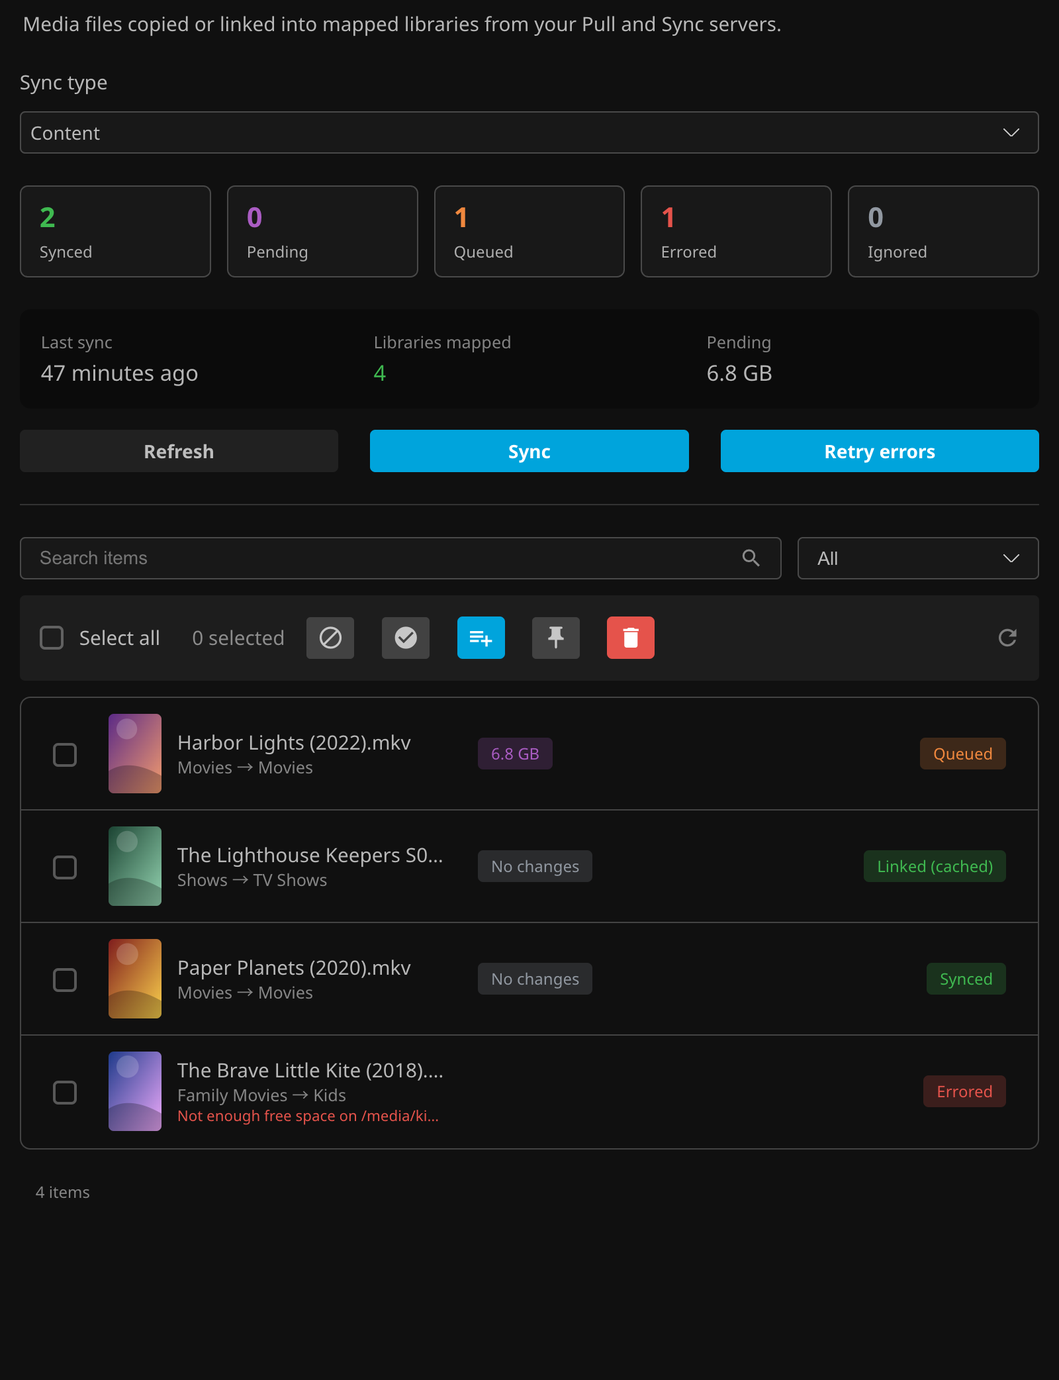
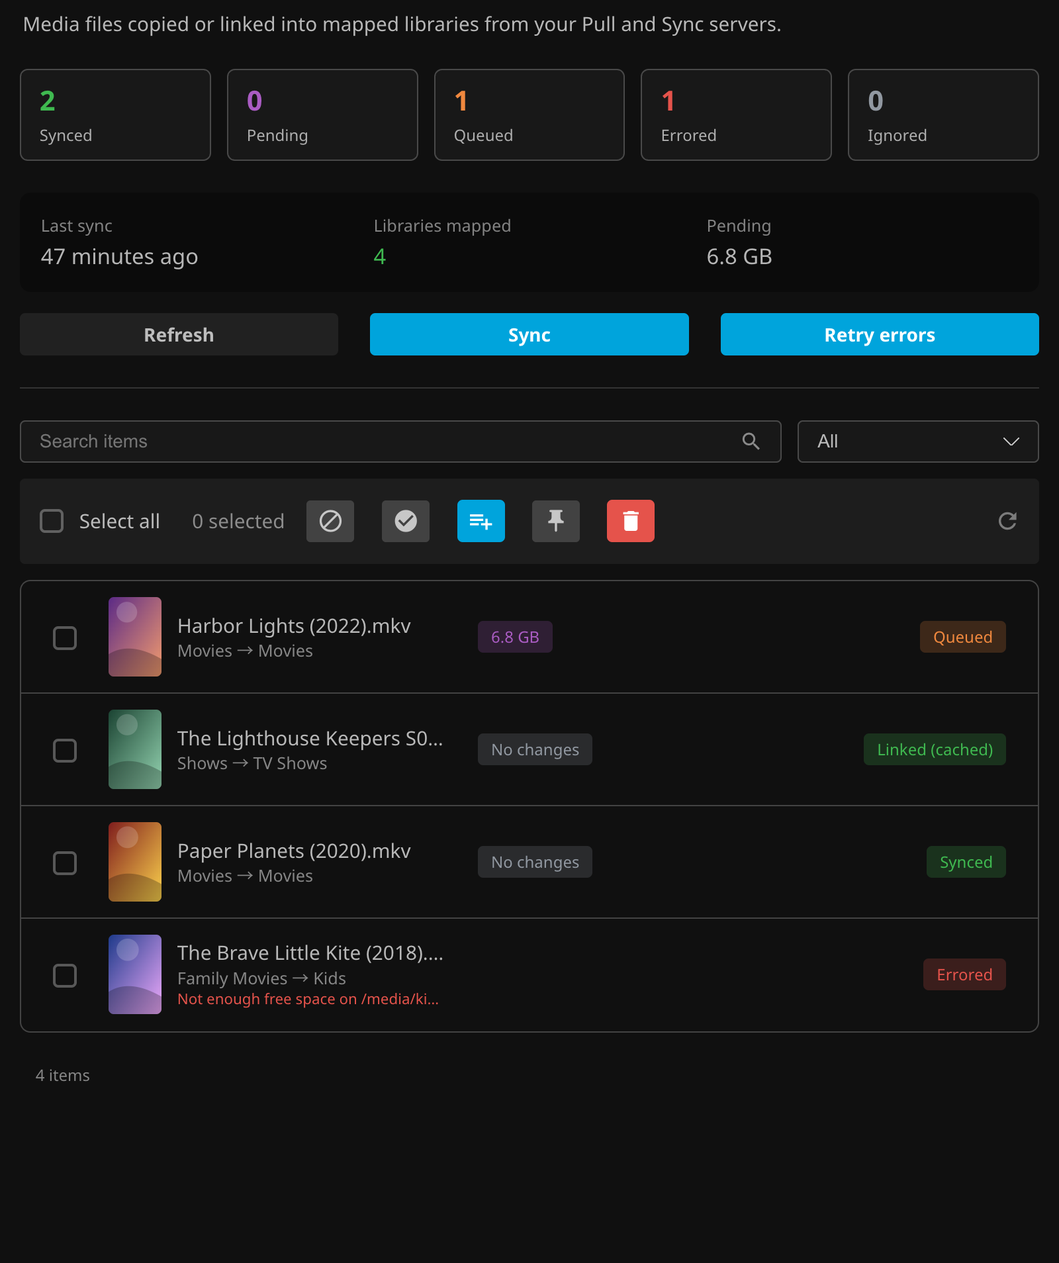
docs and shots for the per type sync tools

diff --git a/docs/Content.md b/docs/Content.md
@@ -15,7 +15,7 @@ Under **Settings > Synchronization > Content**:
 * **Removed files** decides what happens to a local file once its item is gone from the source. **Keep** leaves it. **Delete** deletes it on the next **Sync Content** run that does a full scan (**Full scan every (hours)** under Processing, 24 by default), but still asks first whenever the plugin cannot be sure the file should go. **Delete after approval** holds every deletion as Pending deletion until you approve it. **Ignore** keeps the files and, once everything in a movie or show folder is gone from the source, writes an empty `.ignore` file in that folder so Jellyfin hides it on its next scan. A season is never hidden on its own, so a show that still has episodes on the source stays as it is. A folder that already has a `.ignore` is left alone. A hidden title shows again when it comes back on the source, or when Removed files is set to anything else. Switching away from Delete cancels deletions that were still waiting. A link is not a local file and does not follow this setting. It is always removed once no server offers its file. See [Links](Links.md#when-the-file-is-gone).
 * **Enable recycling bin** moves deleted or replaced files to a recycling bin instead of removing them for good. **Recycling bin path** is its folder.
 * **Keep for (days)** sets how many days files stay in the recycling bin before permanent removal. Only files and trickplay folders the plugin put there expire. They carry the time they were recycled in their name, and anything else in the folder is left alone. A file from deep inside a library gets a shortened name, ending in its own file name and that time, so the move never fails on the filesystem's name length limit.
-* **Remove empty folders** deletes the folders a removal leaves holding nothing but files Zooid wrote. A folder that still holds anything else, such as artwork Jellyfin saved, stays. A title deleted by hand from the **Synchronization** tool also takes its artwork and `.nfo` files, as Jellyfin's own delete does.
+* **Remove empty folders** deletes the folders a removal leaves holding nothing but files Zooid wrote. A folder that still holds anything else, such as artwork Jellyfin saved, stays. A title deleted by hand from the **Content** tool also takes its artwork and `.nfo` files, as Jellyfin's own delete does.
 * **Downloads at once** limits how many files download at once.
 * **Temporary folder** is where files download before they move into place. Blank uses a `zooid` folder in Jellyfin's cache folder.
 * **Minimum free space (GB)** blocks downloads when free space falls below this many gigabytes. Downloads running at the same time hold space for each other, so several large files cannot together fill a disk that each would fit on alone. A file that only fits once another download finishes waits for it.
@@ -75,10 +75,10 @@ A server also keeps a record of the files that left its library, for 30 days. A 
 Zooid is meant to be set up and left alone. What fails is tried again without anyone asking, and only what cannot fix itself is brought to an administrator.
 
 * **Every failed item is retried on the next run**, for every sync type, once the tries set by **Failed item retries** are used up. A full disk, a source that was down, or a network that dropped clears on its own.
-* **An item that has failed on every run for a day is raised once** on Jellyfin's **Activity** page, as "Items failed for a day", with how many items of each kind are failing. It goes on being retried. Filter the **Synchronization** tool's table by **Errored** to see each one.
+* **An item that has failed on every run for a day is raised once** on Jellyfin's **Activity** page, as "Items failed for a day", with how many items of each kind are failing. It goes on being retried. Filter the **Content** tool's table by **Errored** to see each one.
 * **A link that is missing or out of date is written again** at the start of every **Sync Content** run. A link holds nothing, so it is never repaired, only replaced.
 * **A file that was already here is this server's own.** A file on this server before it was matched to another server's is tracked, and stays when that server removes its file, whatever **Removed files** is set to. Only files this server downloaded follow **Removed files**.
-* **When both servers already hold a title as different files, the direction decides.** A **Pull** server is a source to mirror. Its file replaces this server's by **Changed files**, and is from then on a downloaded file like any other. A **Sync** server is an equal. Each keeps its own file, the row is settled and says the two differ, and only what each lacks is filled in. Queue the row in the **Synchronization** tool to take the other server's file by hand. A [Link library](Links.md#versions) keeps this server's own file the same way, whatever the direction.
+* **When both servers already hold a title as different files, the direction decides.** A **Pull** server is a source to mirror. Its file replaces this server's by **Changed files**, and is from then on a downloaded file like any other. A **Sync** server is an equal. Each keeps its own file, the row is settled and says the two differ, and only what each lacks is filled in. Queue the row in the **Content** tool to take the other server's file by hand. A [Link library](Links.md#versions) keeps this server's own file the same way, whatever the direction.
 * **A copy is kept above all else.** A download interrupted while replacing a file puts the old file, its subtitles, artwork, and `.nfo` back on the next run. A download that does not match the size the source reported never replaces a file that is already here.
 * **A server that does not answer holds only its own files.** Removed files are still cleaned up for the servers that answered. The same goes for a server whose library filter names a collection it no longer has.
 * **A full disk does not stop removals.** Files waiting to be removed are removed before the run gives up for lack of space.

diff --git a/docs/Links.md b/docs/Links.md
@@ -202,7 +202,7 @@ A link can keep a full local copy of its file in the link cache. The `.strm` nev
 
 * It plays from the linking server, under the linking server's own rules. The source is not asked, its limits do not apply, and the link plays while the source is down.
 * Playback is not reported to the source, since it sends nothing. History sync carries played state there.
-* The **Synchronization** tool shows the row as **Linked (cached)**.
+* The **Content** tool shows the row as **Linked (cached)**.
 
 The cache is one folder with one size limit, whichever servers its links stream from. It is off until it is given a size.
 
@@ -245,7 +245,7 @@ The cache is kept across restarts. At startup, downloads cut short and cache fil
 
 ## The Link Check
 
-Every **Sync Content** run asks each connected server about the links that stream from it. A link whose file is gone from the source, or whose source no longer allows linking, shows in the **Synchronization** tool as an error starting with `Link check:` and the source's reason, before anyone presses play. The `.strm` is left in place, and the row is settled again on the first run where the source can stream the file. A source that cannot be reached flags nothing, since play falls back to another server and the next run checks again. A link whose file was removed for good is removed on the next full scan. See [When the File Is Gone](#when-the-file-is-gone).
+Every **Sync Content** run asks each connected server about the links that stream from it. A link whose file is gone from the source, or whose source no longer allows linking, shows in the **Content** tool as an error starting with `Link check:` and the source's reason, before anyone presses play. The `.strm` is left in place, and the row is settled again on the first run where the source can stream the file. A source that cannot be reached flags nothing, since play falls back to another server and the next run checks again. A link whose file was removed for good is removed on the next full scan. See [When the File Is Gone](#when-the-file-is-gone).
 
 The reasons a row can show are `the file is no longer on the source`, `the item is a link on the source, not a file`, `the source cannot read the file`, and `linking is not allowed for *server* here`.
 
@@ -271,7 +271,7 @@ These still follow **Removed files**, as a copy does:
 
 A link becomes a full copy in any of three ways:
 
-* **Keep a copy**, the pin on the **Synchronization** tool's toolbar for the selected rows, or **Download** in a link's details. These are queued at once, whatever **New files** is set to, since choosing them is the approval. When any of them is cached, a **Sync Content** run starts at once, or right after the one already running, to move it into place.
+* **Keep a copy**, the pin on the **Content** tool's toolbar for the selected rows, or **Download** in a link's details. These are queued at once, whatever **New files** is set to, since choosing them is the approval. When any of them is cached, a **Sync Content** run starts at once, or right after the one already running, to move it into place.
 * Picking it under **Always keep** on its mapping in the **Storage** page. The next refresh marks it under the **New files** approval, the same as below, and a new file under a pick is added as a copy. A pick removed before its copy is approved leaves it a link. A copy made for a pick goes back to being a link when the pick is removed. The next sync checks that the source still has the file and offers links, writes the link, and moves the copy into the link cache, or removes it when the cache is off or cannot hold it. A copy kept by hand stays until you select it under **Permanent copies** on the **Storage** page and choose **Turn back into links**.
 * Setting the mapping's **Storage** back to **Copy**. The next refresh marks its links under the **New files** approval. They are queued when new files download on their own, wait as Pending replacement when they need approval, and stay links when new files are switched off. Setting it back to Link before approving keeps them links. A link still waiting for its own first approval is left until that is settled.
 
@@ -325,7 +325,7 @@ When the source refuses, the player shows `This item streams from another server
 | this server could not tell who is playing | The request carried no signed in user |
 | press play again, so this server can ask the source | The client streamed without asking for playback first. See Limitations |
 
-A link row that errors in the **Synchronization** tool says why:
+A link row that errors in the **Content** tool says why:
 
 | Reason | Meaning |
 | :--- | :--- |

diff --git a/docs/Architecture.md b/docs/Architecture.md
@@ -73,7 +73,7 @@ Two visible tasks run every six hours. Each runs hidden tasks in order. Each ste
 | **Sync Content** (`SyncContentTask`) | `UpdateSyncTablesTask`, then `SyncMissingContentTask` when the refresh succeeded, then `SyncCollectionsTask` |
 | **Sync Information** (`SyncInformationTask`) | Metadata, People, Users, and History, each a refresh then an apply, then `SyncPlaylistsTask` |
 
-**Empty Recycling bin** and **Clean Temporary Directory** run daily. `POST /Sync/Tasks/{taskKey}/Run` starts a single refresh or apply step from the **Synchronization** page.
+**Empty Recycling bin** and **Clean Temporary Directory** run daily. `POST /Sync/Tasks/{taskKey}/Run` starts a single refresh or apply step from a sync type's tool.
 
 The task bases live in `Tasks/Common/`.
 
@@ -238,12 +238,16 @@ The five sync table managers extend `SyncTableManagerBase`, and every other stor
 
 ## Config Pages
 
-Zooid is one dashboard page, `zooid.html`, that holds every tool in Stolon's tool app. The app shows a sidebar of tools, swaps each tool in place, and keeps the open tool in the address as `tool=`. Each tool is its own page in `Web/` with a script of the same name, loaded the first time it opens. Each tool's script calls `createZooidPage` in `zooid_shared.js`, which runs it through Stolon's `createConfigPage` and builds the helper bag with the `Zooid` route prefix. The tool list is `zooidTools` in the same file. Settings load and save through Jellyfin's plugin configuration route. Each section that saves ends in Stolon's Save Bar from `createSaveBars`, which saves through `saveSection` and asks before the tool is left with unsaved changes. Thumbnails of a source's items load through `ImageProxy`, so the page never holds a source's API key.
+Zooid is one dashboard page, `zooid.html`, that holds every tool in Stolon's tool app. The app shows a sidebar of tools, swaps each tool in place, and keeps the open tool in the address as `tool=`. Each tool is its own page in `Web/` with a script of the same name, loaded the first time it opens. Each tool's script calls `createZooidPage` in `zooid_shared.js`, which runs it through Stolon's `createConfigPage` and builds the helper bag with the `Zooid` route prefix. The tool list is `zooidTools` in the same file. Each sync type's tool is listed while that type is on. The app reads the config when it opens and each time a tool shows, so a type turned on or off joins or leaves the sidebar without a reload. Each sync type's page has a script of the same name that calls `createSyncTypePage` in `zooid_sync_page.js`, which builds the type's table from the kit in `zooid_sync_table.js` and the type's own `zooid_sync_*.js` module. Settings load and save through Jellyfin's plugin configuration route. Each section that saves ends in Stolon's Save Bar from `createSaveBars`, which saves through `saveSection` and asks before the tool is left with unsaved changes. Thumbnails of a source's items load through `ImageProxy`, so the page never holds a source's API key.
 
 | Tool | Page | Calls |
 | :--- | :--- | :--- |
 | **Dashboard** | `zooid_dashboard.html` | Each sync type's status route, `Hints`, `Statistics` |
-| **Synchronization** | `zooid_sync.html` and the `zooid_sync_*.js` modules | Each sync table's routes and `Tasks/{taskKey}/Run` |
+| **Content** | `zooid_content.html` and `zooid_sync_content.js` | `Items`, `Status`, the content actions, and `Tasks/{taskKey}/Run` |
+| **History** | `zooid_history.html` and `zooid_sync_history.js` | The `HistoryItems` routes, `HistoryStatus`, and `Tasks/{taskKey}/Run` |
+| **Metadata** | `zooid_metadata.html` and `zooid_sync_metadata.js` | The `MetadataItems` routes, `MetadataStatus`, and `Tasks/{taskKey}/Run` |
+| **People** | `zooid_people.html` and `zooid_sync_people.js` | The `PeopleItems` routes, `PeopleStatus`, and `Tasks/{taskKey}/Run` |
+| **Users** | `zooid_users.html` and `zooid_sync_users.js` | The `UserSyncUsers` routes, `UserStatus`, and `Tasks/{taskKey}/Run` |
 | **Queue** | `zooid_queue.html` and `zooid_sync_queue.js` | The `Hints` routes |
 | **Servers** | `zooid_servers.html` | `TestConnection`, `Authenticate`, `GetSourceLibraries`, `GetSourceUsers`, `Hints/CheckPeer`, `Servers/{key}/Rows` |
 | **Storage** | `zooid_storage.html` | `SourceLibraryItems`, `KeptCopies`, `KeptCopies/Unkeep` |

diff --git a/docs/API.md b/docs/API.md
@@ -523,7 +523,7 @@ Streams an item's primary image, or with `user=true` a user's profile image, fro
 
 ### Lists and Counts
 
-The **Synchronization** page reads each sync type's table through a list route and a count route. A list takes `search`, `status`, `skip`, and `take`, and a page holds at most 200 rows. It answers Stolon's paged result.
+Each sync type's tool reads its table through a list route and a count route. A list takes `search`, `status`, `skip`, and `take`, and a page holds at most 200 rows. It answers Stolon's paged result.
 
 ```json
 { "Items": [ … ], "TotalCount": 1200, "Page": 1, "PageSize": 50, "TotalPages": 24, "HasMore": true }
@@ -586,7 +586,7 @@ Marks the rows named by `SourceItemIds` as Synced after checking each local file
 Deletes the files of the rows named by `SourceItemIds` from this server only, and keeps each handled row as Ignored so the next scan does not download it again. The source is never touched. Answers `{ "Deleted": 2, "Failed": 0, "Skipped": 0 }`.
 #### POST /Sync/PromoteItems
 
-Turns links into full copies, the **Keep a full local copy** action on the **Synchronization** page and **Download** in an item's details. A link whose whole file is in the link cache, at the size the source reports, has the cached file moved into place by a **Sync Content** run that starts now, or right after the one already running. Any other copy downloads on the next **Sync Content** run. The `.strm` is removed once the copy is in place. Rows that are not links, are ignored, or are on their way to deletion are skipped. `FromCache` counts the promoted links that come from the cache.
+Turns links into full copies, the **Keep a full local copy** action on the **Content** tool and **Download** in an item's details. A link whose whole file is in the link cache, at the size the source reports, has the cached file moved into place by a **Sync Content** run that starts now, or right after the one already running. Any other copy downloads on the next **Sync Content** run. The `.strm` is removed once the copy is in place. Rows that are not links, are ignored, or are on their way to deletion are skipped. `FromCache` counts the promoted links that come from the cache.
 
 ```json
 { "SourceItemIds": ["9c1e0f…", "77ab12…"] }
@@ -600,7 +600,7 @@ Content rows from `GET /Sync/Items` carry `StorageMode`, which is `Copy`, `Link`
 
 #### GET /Sync/KeptCopies?serverKey={key}&search={text}&skip={n}&take={n}
 
-The full copies held in one server entry's Link mappings, the **Storage** page's **Permanent copies**, as content rows, including copies already on their way back to links. `Kept` says why each is a copy. It is `Pick` for an Always keep pick, `Hand` for one kept from the **Synchronization** page, `Own` for a file that was already here, or `Unknown` for one whose reason was not recorded. `take` is at most 200.
+The full copies held in one server entry's Link mappings, the **Storage** page's **Permanent copies**, as content rows, including copies already on their way back to links. `Kept` says why each is a copy. It is `Pick` for an Always keep pick, `Hand` for one kept from the **Content** tool, `Own` for a file that was already here, or `Unknown` for one whose reason was not recorded. `take` is at most 200.
 
 #### POST /Sync/KeptCopies/Unkeep
 
@@ -653,7 +653,7 @@ What the **Statistics** page charts.
 
 #### POST /Sync/Tasks/{taskKey}/Run
 
-Starts one of Zooid's refresh or sync tasks now, as the **Refresh** and **Sync** buttons on the **Synchronization** page do. Answers `404` for any other key.
+Starts one of Zooid's refresh or sync tasks now, as the **Refresh** and **Sync** buttons on each sync type's tool do. Answers `404` for any other key.
 
 | Sync type | Refresh | Sync |
 | :--- | :--- | :--- |

diff --git a/docs/Setup.md b/docs/Setup.md
@@ -4,12 +4,16 @@ This page walks through a first setup, from opening the Zooid page to reading th
 
 ## The Zooid Page
 
-Open **Zooid** from the dashboard menu. Zooid is one page with a sidebar of tools, and it opens on the **Dashboard**. The button at the top of the sidebar folds it to its icons. A tool with nothing to show is left out of the sidebar.
+Open **Zooid** from the dashboard menu. Zooid is one page with a sidebar of tools, and it opens on the **Dashboard**. The button at the top of the sidebar folds it to its icons. A tool with nothing to show is left out of the sidebar. Each sync type has its own tool, which joins or leaves the sidebar as soon as that type is turned on or off.
 
 | Tool | What it holds | Shows while |
 | :--- | :--- | :--- |
 | **Dashboard** | A card for the servers, the queue, and each sync type. A card opens its tool | Always |
-| **Synchronization** | Each sync type's table | A sync type is on |
+| **Content** | The content sync table | Content sync is on |
+| **History** | The history sync table | History sync is on |
+| **Metadata** | The metadata sync table | Metadata sync is on |
+| **People** | The people sync table | People sync is on |
+| **Users** | The user sync table | User sync is on |
 | **Queue** | The changes sent between servers as they happen | Always |
 | **Servers** | The one time setup of the servers this one syncs with | Always |
 | **Storage** | How each mapped library keeps its files, and which items it syncs | Content, history, or metadata sync is on |
@@ -151,7 +155,7 @@ The **Dashboard** shows how the servers, the change queue, and each sync type st
 | Updated | Items that were in step and that the scan found changed on a source |
 | Removed | Items the scan stopped tracking, since no source holds them any more |
 
-A scan of a sync type runs from its scheduled task or from **Refresh** on **Synchronization**. An item that is already waiting to sync is not counted again by a later scan.
+A scan of a sync type runs from its scheduled task or from **Refresh** on its tool. An item that is already waiting to sync is not counted again by a later scan.
 
 While a server may link to this one, the page also charts **Link streams**. It shows how many streams this server started for each such server on each of the last 30 days, one line for each server. It sits under **Content** when content sync is on and in a section of its own when it is off. A film counts once however often its player seeks. See [Links](Links.md).
 

diff --git a/skills/style.md b/skills/style.md
@@ -259,7 +259,8 @@ Every tool page uses Jellyfin's page shell. The tool app takes the page's view o
 * A page has no title of its own. The shell's heading names it, and `setPageTitle` changes the heading when a page needs another.
 * Entry names are short, each with a Material icon.
 * Keep the list in one place, `zooidTools` in the shared module, never copied into each page.
-* Order entries from what is used most to what is set once. Zooid is **Dashboard**, **Synchronization**, **Queue**, **Servers**, **Storage**, **Statistics**, **Settings**, **Troubleshooting**.
+* Order entries from what is used most to what is set once. Zooid is **Dashboard**, **Content**, **History**, **Metadata**, **People**, **Users**, **Queue**, **Servers**, **Storage**, **Statistics**, **Settings**, **Troubleshooting**.
+* Each sync type has its own entry, with the icon of its Settings section, `video_library`, `history`, `info`, `people`, and `group`. An entry whose feature is off leaves the sidebar, through `TOOL_FLAG_KEYS` and `toolFlags` in the shared module.
 
 ### Sections
 

diff --git a/skills/glossary.md b/skills/glossary.md
@@ -62,7 +62,7 @@ The agreed name for every concept in this plugin. The UI, the docs, messages, an
 | Sync Information | The scheduled task for metadata, people, users, history, and playlists | | Info task |
 | Scan | A scheduled pass that compares everything with every source | Refresh | Poll, crawl |
 | Full scan | A scan that also checks each synced file on disk | | Deep scan |
-| Sync table | The table of tracked items for one sync type on the **Synchronization** page | `ISyncTableManager` | Grid, list |
+| Sync table | The table of tracked items for one sync type, on that type's tool | `ISyncTableManager` | Grid, list |
 | Precedence | Who speaks for an item held on several servers, **Newest** or **Ranked** | `SyncPrecedence` | Priority, winner |
 | Newest | The server that changed an item last speaks for it | `SyncPrecedence.Newest` | Latest |
 | Ranked | The highest ranked server that holds an item speaks for it | `SyncPrecedence.Rank` | Priority |

diff --git a/docs/SyncTypes.md b/docs/SyncTypes.md
@@ -11,7 +11,7 @@ Two scheduled tasks do the work, and two daily housekeeping tasks, **Empty Recyc
 | Users | User mapping | No, scheduled only | [Users](Users.md) |
 | Playlists | Owner mapping, items by file path | Yes, including deletions | [Playlists](Playlists.md) |
 
-Content, History, Metadata, People, and Users each have a table in the **Synchronization** tool. Pick one under **Sync type**. Playlists have no table. Their live changes show in the **Queue** tool, with every other live change.
+Content, History, Metadata, People, and Users each have their own tool, **Content**, **History**, **Metadata**, **People**, and **Users**, with that type's table. A tool shows while its type is on. Playlists have no table. Their live changes show in the **Queue** tool, with every other live change.
 
 ## The Sync Table
 

diff --git a/skills/documentation.md b/skills/documentation.md
@@ -53,7 +53,7 @@ Leave out compatibility notes for peers the plugin does not support. The plugin 
 
 * Write a label exactly as the page shows it, in bold. **Send changes after (seconds)**.
 * Write a path through the UI with `>` between the steps, in bold. **Dashboard > Plugins > Zooid > Settings**.
-* Write a tab as its label, in bold. **Sync**, **Servers**, **Storage**, **Statistics**, **Settings**.
+* Write a tab as its label, in bold. **Content**, **Servers**, **Storage**, **Statistics**, **Settings**.
 * Quote activity log names and on-screen messages in double quotes. "Zooid needs attention".
 * Write routes, files, settings keys, and values in code. `POST /Sync/Tasks/{taskKey}/Run`.
 

diff --git a/skills/code.md b/skills/code.md
@@ -153,7 +153,7 @@ public static VersionDecision Decide(ObjectVersion? local, ObjectVersion incomin
 
 ```js
 // createSyncTableModule
-// Builds the Sync tab's content table and its filters.
+// Builds the Content tool's table and its filters.
 //
 // Inputs
 // view [HTMLElement]: The page that holds the table.
